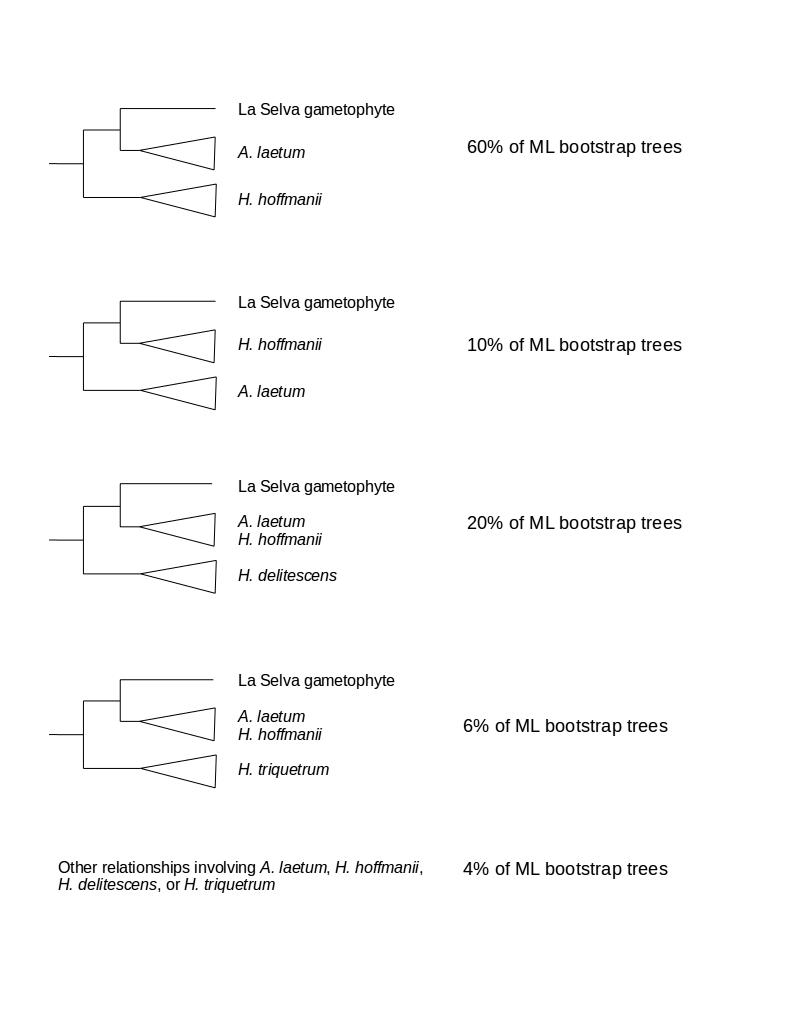
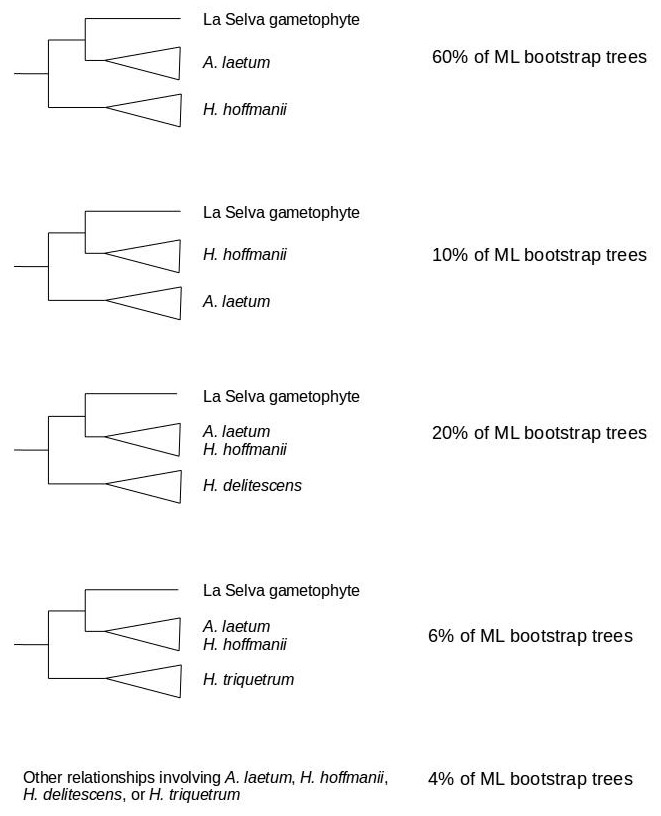
Update post and remove whitespace from figure

diff --git a/_posts/2018/2018-07-31-La-Selva-paddle-gametophyte-reanalysis.md b/_posts/2018/2018-07-31-La-Selva-paddle-gametophyte-reanalysis.md
@@ -17,9 +17,9 @@ In 2008, I used atpB sequence to try to identify the "paddle gametophytes" from 
 
 ![ML_tree][image1]
 
-  The La Selva gametophyte falls within the _Hymenasplenium_ clade. It is sister to _A. laetum_ (which Robbin confirms is actually a _Hymenasplenium_) in subclade with _H. hoffmanii_, _H. delitescens_, and _H. triquetrum_. It appears in clades with different combinations of those four species in all bootstrap trees as well.
+  The La Selva gametophyte falls within the _Hymenasplenium_ clade. It is sister to _A. laetum_ (which Robbin confirms is actually a _Hymenasplenium_) in a subclade with _H. hoffmanii_, _H. delitescens_, and _H. triquetrum_. It appears in clades with different combinations of those four species in all bootstrap trees as well.
 
-  According to Robbin and Eddie, A. laetum is not known to be present at La Selva.
+  According to Robbin and Eddie, _A. laetum_ is not known to be present at La Selva.
 
 ![Bootstrapped_relationships][image2]
 
